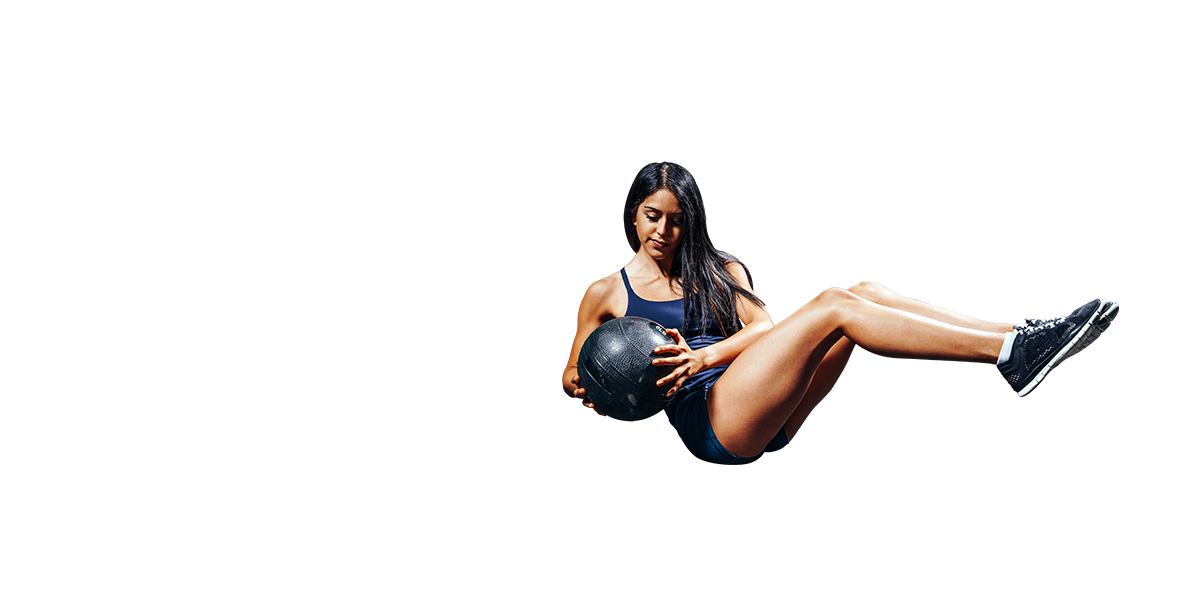
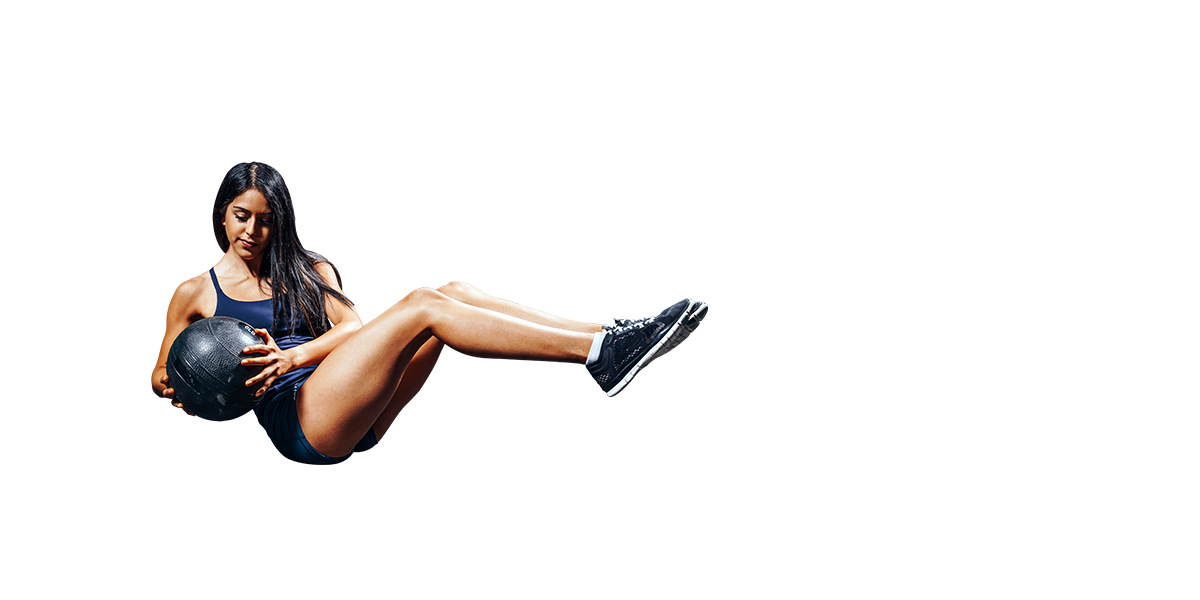
main profile, main content modify ok

Changed region(s): [[0.1233, 0.27, 0.9558, 0.78]]

diff --git a/src/main/webapp/resources/static/css/agency_2.css b/src/main/webapp/resources/static/css/agency_2.css
@@ -1354,6 +1354,9 @@ text-align:center;
 	grid-row-start:2;
 	grid-row-end:3;
 }
+.tt {
+	margin-left: 195px;
+}
 
 
 
@@ -1408,6 +1411,10 @@ text-align:center;
 .content-boardView-comment {
 	display: inline;
 }
+.tt {
+	margin-left: auto;
+}
+
 
 }
 
